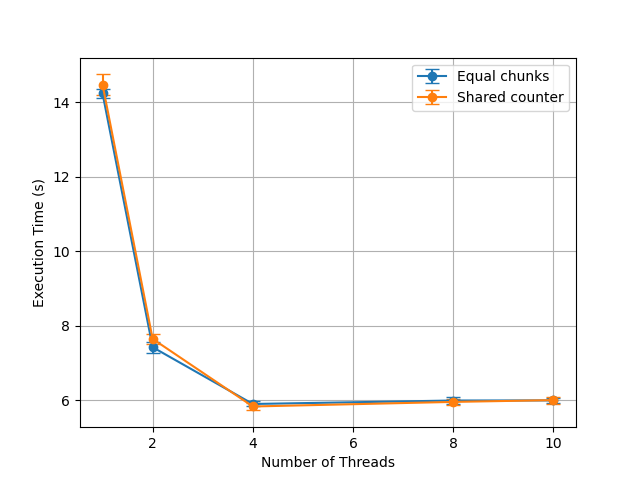
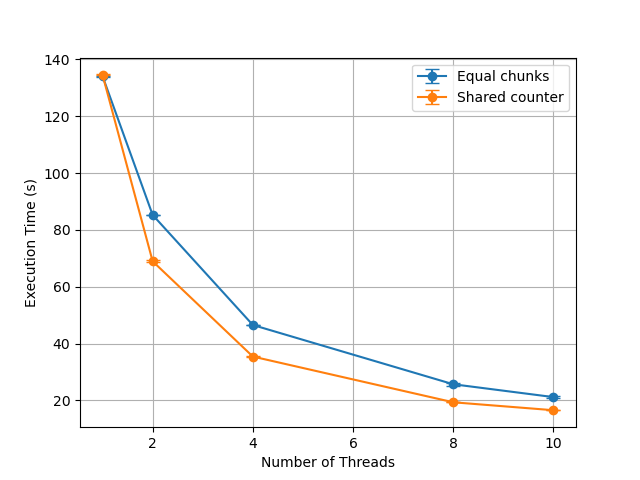
Finalize commentary

diff --git a/assignment1/main.cpp b/assignment1/main.cpp
@@ -16,6 +16,10 @@ using usize = std::size_t;
 using u32 = std::uint32_t;
 using u64 = std::uint64_t;
 
+/**
+ * CURRENTLY UNUSED - No further commentary provided
+ * Class for a mutex counter
+ */
 class Counter {
 	private:
     int value{0};
@@ -42,6 +46,9 @@ thread_local std::string buffer = [] {
 	return b;
 }();
 
+/**
+ * @brief Helper function to print the buffered output for each thread.
+ */
 void flush_buffer() {
 	if (buffer.empty()) return;
 
@@ -50,7 +57,7 @@ void flush_buffer() {
 }
 
 /**
- *  Helper function to check whether the CLI argument "jobs" is from type int.
+ * @brief Helper function to check whether the CLI argument "jobs" value is from type int.
  */
 bool parse_int(std::string_view sv, usize& out) {
     auto [ptr, ec] = std::from_chars(sv.data(), sv.data() + sv.size(), out);
@@ -59,13 +66,17 @@ bool parse_int(std::string_view sv, usize& out) {
 }
 
 /**
- * Checks whether a number is a prime.
+ * @brief Checks whether a number is a prime.
+ *
+ * @param n The number to verify as prime or not.
+ * @return  True if prime, false otherwise.
  */
 bool is_prime(const usize& n) {
     if (n < 2) return false;
     if (n == 2) return true;
     if (n % 2 == 0) return false;
 
+    // Check all numbers above trivial cases
     for (int d = 3; d * d <= n; d += 2)
         if (n % d == 0)
             return false;
@@ -73,7 +84,9 @@ bool is_prime(const usize& n) {
 }
 
 /**
- * Checks whether a number is a prime.
+ * @brief Checks whether a number is a prime.
+ *
+ * @param n The number to verify as prime or not.
  */
 void print_prime(const usize& n) {
 	if(!is_prime(n)) return;
@@ -81,11 +94,13 @@ void print_prime(const usize& n) {
 	char buf[32];
 	auto res = std::to_chars(buf, buf + sizeof(buf), n);
 
+	// to_chars should never fail for a fixed-size integer with a 32-byte buffer
 	if (res.ec != std::errc()) [[unlikely]] {
 		std::cerr << "to_chars failed\n";
 		std::exit(1);
 	}
 
+	// Append newline to prime console output
 	*res.ptr++ = '\n';
 	buffer.append(buf, res.ptr);
 
@@ -95,7 +110,9 @@ void print_prime(const usize& n) {
 }
 
 /**
- * Calculates prime numbers by equally sized chunks.
+ * @brief Calculates prime numbers by equally sized chunks.
+ *
+ * @param number_of_threads The amount of threads used for calculation of primes.
  */
 void process_chunks(const usize& number_of_threads) {
 	// Calculate chunk size to process for each thread
@@ -120,7 +137,10 @@ void process_chunks(const usize& number_of_threads) {
 }
 
 /**
- * Calculates prime numbers using a shared counter with a mutex.
+ * CURRENTLY UNUSED - No further commentary provided
+ * @brief Calculates prime numbers using a shared counter with a mutex.
+ *
+ * @param number_of_threads The amount of threads used for calculation of primes.
  */
 void process_shared_mutex(const usize& number_of_threads) {
 	std::vector<std::jthread> threads;
@@ -143,7 +163,9 @@ void process_shared_mutex(const usize& number_of_threads) {
 }
 
 /**
- * Calculates prime numbers using a shared counter with atomic.
+ * @brief Calculates prime numbers using a shared atomic counter.
+ *
+ * @param number_of_threads The amount of threads used for calculation of primes.
  */
 void process_shared_atomic(const usize& number_of_threads) {
 	std::vector<std::jthread> threads;
@@ -166,6 +188,7 @@ void process_shared_atomic(const usize& number_of_threads) {
 }
 
 int main(int argc, char *argv[]) {
+    // Check for valid input
     if (argc > 3) {
         std::cout << "Usage: ./my-primes [--jobs <number of threads>, Default: 1]\n";
         return EXIT_FAILURE;
@@ -174,6 +197,7 @@ int main(int argc, char *argv[]) {
     usize number_of_threads = 1;
     bool argument_provided = false;
 
+    // Set default thread count to 1 if no argument was provided
     if (argc > 1) {
         argument_provided = std::strcmp(argv[1], "--jobs") == 0;
 
@@ -186,6 +210,7 @@ int main(int argc, char *argv[]) {
         std::cout << "Warning: No number of threads provided. Defaulting to 1 thread...\n";
     }
 
+    // Set custom thread count between 1 and 10
     if (argc == 3 && argument_provided) {
         if (!parse_int(argv[2], number_of_threads)) {
             std::cerr << "Error: Invalid number format\n";
@@ -199,6 +224,8 @@ int main(int argc, char *argv[]) {
     }
 
     process_chunks(number_of_threads);
-    // process_shared_mutex(number_of_threads);
     // process_shared_atomic(number_of_threads);
+
+    // CURRENTLY UNUSED
+    // process_shared_mutex(number_of_threads);
 }

diff --git a/assignment1/plot.py b/assignment1/plot.py
@@ -5,7 +5,7 @@ import pandas as pd
 
 ROOT = os.path.dirname(os.path.dirname(os.path.abspath(__file__)))
 
-
+# Calculate mean and standard deviation of each column
 def analyze(file):
     df = pd.read_csv(file)
 
@@ -14,10 +14,11 @@ def analyze(file):
 
     return means, stds
 
-
+# Analyze both CSV files
 m1, s1 = analyze(os.path.join(ROOT, "equal_chunks.csv"))
 m2, s2 = analyze(os.path.join(ROOT, "shared_counter.csv"))
 
+# Create graph
 threads = [1, 2, 4, 8, 10]
 
 plt.errorbar(threads, m1, yerr=s1, label="Equal chunks", marker="o", capsize=5)